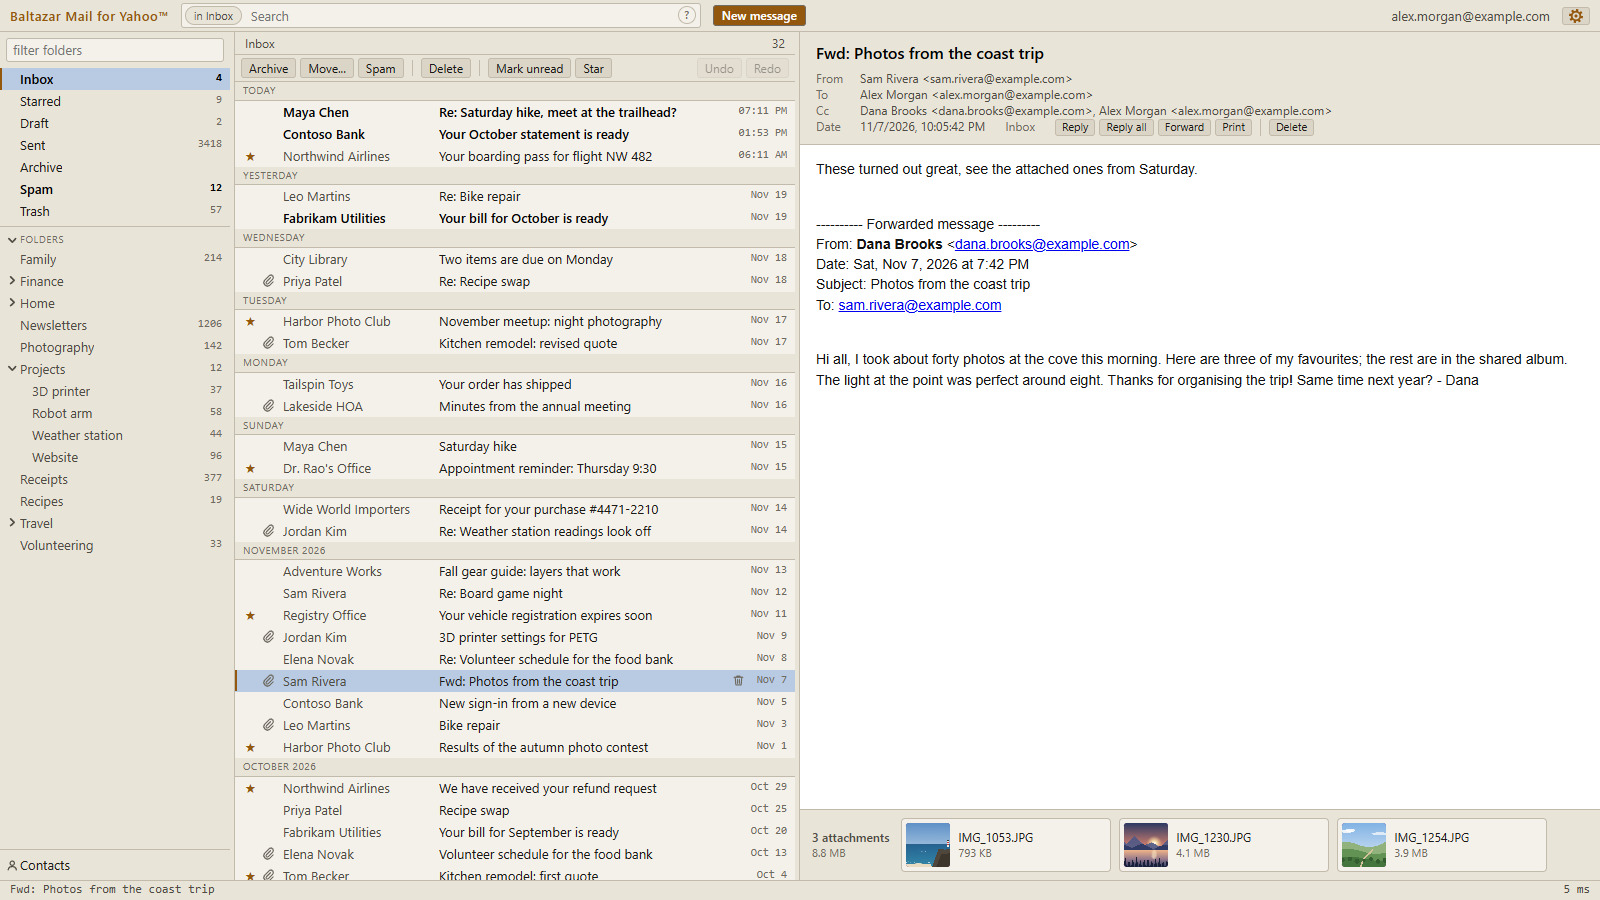
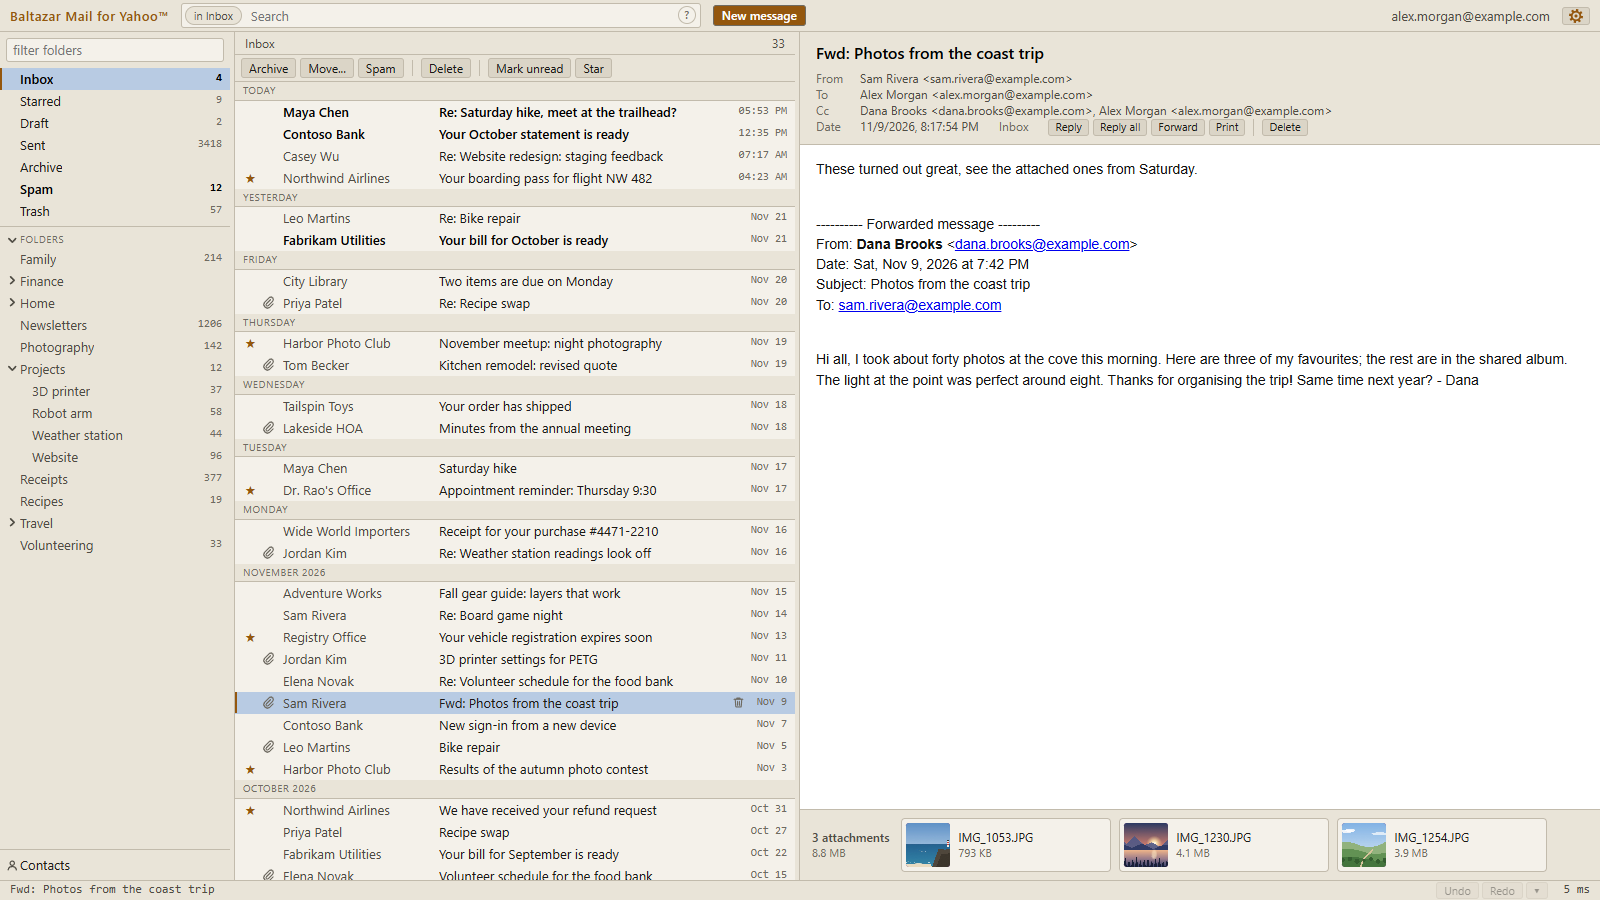
Redraw the README and store pictures, with a conversation and the undo history
They still showed Undo and Redo in the message toolbar, and none of the features added since. The dark picture shows a conversation from three folders and the undo history taking back an older action alone; the pictures' mailbox gains a real thread, and its mock keeps flags, moves and counts as a server does.

diff --git a/tools/screenshots.js b/tools/screenshots.js
@@ -35,18 +35,30 @@ const folders = [
 const fname = id => folders.find(f => f.id === id)?.name || "Inbox";
 
 let seq = 0;
+// o.conv: the conversation a message is in, digits as Yahoo writes them (one of its own otherwise);
+// o.ids: its Message-ID, In-Reply-To and References headers
 const mk = (folder, daysAgo, from, subject, o = {}) => ({
-  id: `M${folder}_${++seq}`, conversationId: `C${seq}`, size: 4000, csid: `cs${seq}`,
+  id: `M${folder}_${++seq}`, conversationId: o.conv || String(9000 + seq), size: 4000, csid: `cs${seq}`,
   flags: { read: o.unread ? false : true, flagged: !!o.star },
   attachmentCount: o.att || 0,
-  headers: { subject, from: [from], to: [o.to || ME], cc: o.cc || [], date: String(NOW - Math.round(daysAgo * DAY) - (seq % 7) * 1800) },
+  headers: { subject, from: [from], to: [o.to || ME], cc: o.cc || [], date: String(NOW - Math.round(daysAgo * DAY) - (seq % 7) * 1800), ...o.ids },
   folder: { id: folder, name: fname(folder) }, snippet: o.snippet || "",
 });
 const p = (name, email) => ({ name, email });
+const ROBIN = p("Robin Hale", "robin.hale@example.com"), CASEY = p("Casey Wu", "casey.wu@example.com");
+
+// The website design thread, one conversation in Projects/Website, Sent and Inbox, for the dark
+// screenshot: each message names its own id, the one it answers and, as References, the chain
+// above that, as mail does.
+const THREAD = "7001", ANSWERS = { s: "a", b: "s", c: "b", e: "a", d: "e", k: "d", f: "d", g: "f" };
+const chain = id => ANSWERS[id] ? [...chain(ANSWERS[id]), ANSWERS[id]] : [];
+const msgId = id => `<${id}.staging@website.example>`;
+const inThread = id => ({ conv: THREAD, ids: { messageIdRfc822: msgId(id), inReplyTo: ANSWERS[id] ? msgId(ANSWERS[id]) : "", referenceList: chain(id).map(msgId) } });
 
 const inbox = [
   mk("1", 0.1, p("Maya Chen", "maya.chen@example.com"), "Re: Saturday hike, meet at the trailhead?", { unread: true }),
   mk("1", 0.3, p("Contoso Bank", "alerts@contoso.example"), "Your October statement is ready", { unread: true }),
+  mk("1", 0.5, CASEY, "Re: Website redesign: staging feedback", inThread("k")),
   mk("1", 0.6, p("Northwind Airlines", "no-reply@northwind.example"), "Your boarding pass for flight NW 482", { star: true }),
   mk("1", 1.2, p("Leo Martins", "leo.martins@example.com"), "Re: Bike repair", {}),
   mk("1", 1.5, p("Fabrikam Utilities", "billing@fabrikam.example"), "Your bill for October is ready", { unread: true }),
@@ -92,16 +104,15 @@ To: <a href="mailto:sam.rivera@example.com">sam.rivera@example.com</a></div><br>
 <p>Hi all, I took about forty photos at the cove this morning. Here are three of my favourites; the rest are in the shared album.
 The light at the point was perfect around eight. Thanks for organising the trip! Same time next year? - Dana</p></div>`;
 
-// Projects/Website: a design thread for the dark screenshot
-const ROBIN = p("Robin Hale", "robin.hale@example.com");
+// Projects/Website: the design thread, and the project's other mail
 const website = [
-  [0.2, ME, "Re: Website redesign: staging feedback", 0], [0.3, ROBIN, "Re: Website redesign: staging feedback", 1],
-  [0.9, ROBIN, "Re: Website redesign: staging feedback", 1], [1.1, ME, "Re: Website redesign: staging feedback", 1],
-  [1.4, ME, "Re: Website redesign: staging feedback", 1], [2.0, ROBIN, "Re: Website redesign: staging feedback", 0],
-  [3.0, ROBIN, "Website redesign: staging feedback", 0], [4.5, p("Casey Wu", "casey.wu@example.com"), "Logo files, final versions", 2],
-  [6.0, p("Casey Wu", "casey.wu@example.com"), "Re: Colour palette options", 1], [9.0, ROBIN, "Hosting renewal and DNS move", 0],
-  [14.0, p("Casey Wu", "casey.wu@example.com"), "Colour palette options", 1], [21.0, ROBIN, "Kickoff notes", 1],
-].map(([d, from, s, att]) => mk("22", d, from, s, { att }));
+  [0.2, ME, "Re: Website redesign: staging feedback", 0, "g"], [0.3, ROBIN, "Re: Website redesign: staging feedback", 1, "f"],
+  [0.9, ROBIN, "Re: Website redesign: staging feedback", 1, "d"], [1.1, ME, "Re: Website redesign: staging feedback", 1, "e"],
+  [1.4, ME, "Re: Website redesign: staging feedback", 1, "c"], [2.0, ROBIN, "Re: Website redesign: staging feedback", 0, "b"],
+  [3.0, ROBIN, "Website redesign: staging feedback", 0, "a"], [4.5, CASEY, "Logo files, final versions", 2],
+  [6.0, CASEY, "Re: Colour palette options", 1], [9.0, ROBIN, "Hosting renewal and DNS move", 0],
+  [14.0, CASEY, "Colour palette options", 1], [21.0, ROBIN, "Kickoff notes", 1],
+].map(([d, from, s, att, id]) => mk("22", d, from, s, { att, ...(id ? inThread(id) : {}) }));
 const DESIGN_MSG = website[2];
 DESIGN_MSG.attachments = [{ partId: "2", filename: "staging-notes.pdf", size: 182000, disposition: "attachment", type: "application", subtype: "pdf", downloadUrl: "https://cloud-apis.mail.yahoo.com/dl/9" }];
 DESIGN_MSG.html = `<div style="font-family:Helvetica,Arial,sans-serif;font-size:14px">
@@ -120,7 +131,7 @@ DESIGN_MSG.html = `<div style="font-family:Helvetica,Arial,sans-serif;font-size:
 <p>Could you click through it this week and send me anything that looks wrong? I would like to switch the DNS over before the end of the month.</p>
 <p>- Alex</p></blockquote></div>`;
 
-const sent = [mk("2", 1.1, ME, "Re: Website redesign: staging feedback", { to: ROBIN }), mk("2", 2.2, ME, "Re: Saturday hike", { to: p("Maya Chen", "maya.chen@example.com") })];
+const sent = [mk("2", 2.5, ME, "Re: Website redesign: staging feedback", { to: ROBIN, ...inThread("s") }), mk("2", 2.2, ME, "Re: Saturday hike", { to: p("Maya Chen", "maya.chen@example.com") })];
 const all = [...inbox, ...website, ...sent];
 for (const m of all) if (!m.html) m.html = `<p>${m.headers.subject}</p>`;
 
@@ -234,6 +245,9 @@ function listFor(q) {
   // all mail with one person, newest first (a contact's page)
   const who = (q.match(/from:\("([^"]+)"\) OR to:/) || [])[1];
   if (who) return all.filter(m => [...m.headers.from, ...m.headers.to].some(a => a.email === who)).sort((a, b) => b.headers.date - a.headers.date);
+  // a conversation, newest first, in every folder (Show conversation)
+  const conv = (q.match(/conversationId:(\d+)/) || [])[1];
+  if (conv) return all.filter(m => m.conversationId === conv).sort((a, b) => b.headers.date - a.headers.date);
   const folder = (q.match(/folderId:(\d+)/) || [])[1] || "1";
   return all.filter(m => m.folder.id === folder);
 }
@@ -263,6 +277,19 @@ function listFor(q) {
       const msg = all.find(x => x.id === id) || all[0];
       result = { message: { ...msg, attachments: msg.attachments || [] }, simpleBody: { html: msg.html } };
     } else if (/"method":"(POST|DELETE)"/.test(post)) {
+      // flags and moves are kept, with the folders' counts, as the server keeps them, so what is
+      // listed afterwards shows them
+      const count = (folderId, total, unread) => { const f = folders.find(x => x.id === folderId); if (f) { f.total += total; f.unread += unread; f.highestModSeq++; } };
+      for (const r of m ? JSON.parse(m[1]).requests : []) {
+        const id = (decodeURIComponent(r.uri || "").match(/id:\(([^)]+)\)/) || [])[1], msg = all.find(x => x.id === id), change = r.payload?.message;
+        if (!msg || !change) continue;
+        if (change.flags && "read" in change.flags && change.flags.read !== msg.flags.read) count(msg.folder.id, 0, change.flags.read ? -1 : 1);
+        if (change.flags) msg.flags = { ...msg.flags, ...change.flags };
+        if (change.folder?.id && change.folder.id !== msg.folder.id) {
+          count(msg.folder.id, -1, msg.flags.read ? 0 : -1); count(change.folder.id, 1, msg.flags.read ? 0 : 1);
+          msg.folder = { id: change.folder.id, name: fname(change.folder.id) };
+        }
+      }
       const ids = [...post.matchAll(/"id":"((?:UnifiedUpdateMessage|UnifiedDeleteMessage)_\d+)"/g)].map(x => x[1]);
       return route.fulfill({ contentType: "application/json", body: JSON.stringify({ result: { responses: ids.map(id => ({ id, httpCode: 204 })) } }) });
     } else {
@@ -329,15 +356,31 @@ function listFor(q) {
   await viewerFrame.evaluate(() => document.dispatchEvent(new KeyboardEvent("keydown", { key: "Escape", bubbles: true })));
   await page.waitForSelector("#viewer.hidden", { state: "attached" });
 
-  // 3. dark, messages above the preview, a project thread
+  // 3. dark, messages above the preview: the design thread as a conversation, and the undo
+  // history open over it with its oldest action taken back alone. The mailbox is put back after.
+  const kept = { messages: all.map(m => [m, m.flags, m.folder]), folders: folders.map(f => [f, f.total, f.unread]) };
   await setup({ layout: "horizontal", theme: "dark", darkTheme: "dark", folderW: 230, listH: 36, expanded: ["Projects"] });
   await page.locator("#folder-list .folder", { hasText: "Website" }).click();
   await page.waitForFunction(() => document.getElementById("list-title").textContent === "Projects/Website");
-  await openRow("Re: Website redesign: staging feedback");
-  await page.locator("#rows .row").nth(2).click();
+  for (const [subject, key] of [["Hosting renewal and DNS move", "e"], ["Logo files, final versions", "s"]]) {
+    await page.locator("#rows .row", { hasText: subject }).first().click(); await page.waitForTimeout(400);
+    await page.keyboard.press(key); await page.waitForTimeout(600);
+  }
+  await page.locator("#rows .row").nth(2).click();     // Robin's feedback, with the review attached
+  await page.waitForFunction(s => document.getElementById("r-subject").textContent === s, DESIGN_MSG.headers.subject);
+  await page.keyboard.press("w");
+  await page.waitForFunction(() => document.getElementById("list-title").textContent.startsWith("Conversation"));
+  await page.waitForTimeout(600);
+  await page.keyboard.press("s"); await page.waitForTimeout(600);
+  await page.keyboard.press("y"); await page.waitForSelector("#history:not(.hidden)");
+  await page.keyboard.press("End"); await page.keyboard.press("Enter");
+  await page.waitForFunction(() => document.querySelector("#history .h-row.undone:not(.working)"));
   await page.waitForTimeout(800);
   await page.mouse.move(W - 5, 60);
   await page.screenshot({ path: path.join(OUT, "dark.png") });
+  await page.keyboard.press("Escape");
+  for (const [m, flags, folder] of kept.messages) Object.assign(m, { flags, folder });
+  for (const [f, total, unread] of kept.folders) Object.assign(f, { total, unread });
 
   // 4. Contacts, in the light theme: the people written to, and one person's page
   await setup({ layout: "vertical", theme: "light", lightTheme: "light", folderW: FOLDER_W, listW: LIST_W, expanded: ["Projects"] });

diff --git a/README.md b/README.md
@@ -27,7 +27,7 @@ Everything a mail client does, and:
 
 ![Attachment viewer showing a PDF review document over the message](docs/screenshots/viewer.png)
 
-![Dark theme with the message list above the preview and a darkened message](docs/screenshots/dark.png)
+![Dark theme: a conversation above the darkened message, each reply beneath the message it answers, and the undo history with an older action taken back alone](docs/screenshots/dark.png)
 
 ![Contacts: the people you have written to, and one person's page with what can be done and the recent mail with them](docs/screenshots/contacts.png)
 
